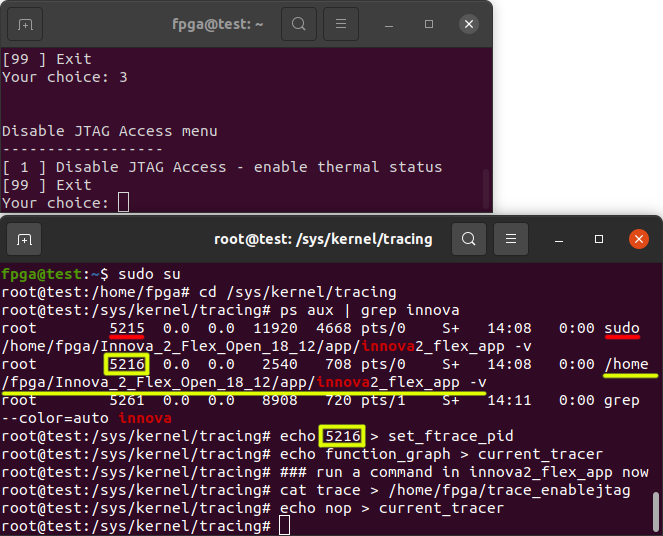
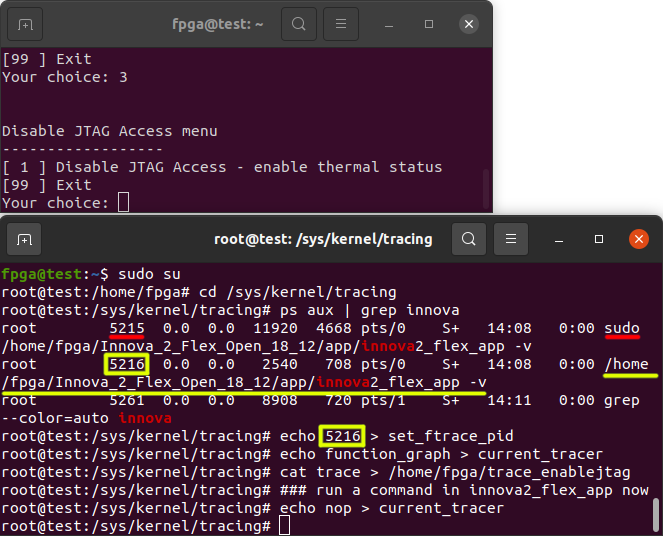
mstreg Enable JTAG switch Image

Changed region(s): [[0.4223, 0.8657, 0.9955, 0.9254]]

diff --git a/debug_notes/README.md b/debug_notes/README.md
@@ -25,8 +25,6 @@ I found out about this technique [here](https://hackaday.com/2018/02/17/catching
 
 ## Recreating innova2_flex_app Functionality for latest MLNX OFED
 
-**Work-In-Progress**
-
 [MLNX_OFED](https://network.nvidia.com/products/infiniband-drivers/linux/mlnx_ofed/) versions > 5.2 do not include `mlx5_fpga_tools` which is required by `innova2_flex_app` to program the FPGA, switch the active image, and enable/disable JTAG.
 
 Check if your current kernel supports tracing.
@@ -50,8 +48,8 @@ cd /sys/kernel/tracing
 ps aux | grep innova
 echo PID_FROM_ABOVE > set_ftrace_pid
 echo function_graph > current_tracer
-### run a command in innova2_flex_app now
 cat trace > /home/fpga/trace_enablejtag
+### run a command in innova2_flex_app now
 echo nop > current_tracer
 exit
 ```
@@ -92,6 +90,10 @@ JTAG is enabled by writing `0x900` to register `0x4023`.
 
 ![mlx5_fpga_ctrl_connect in cmd.c](img/mlx5_fpga_ctrl_connect_in_cmd_c.png)
 
+`mlx5_core_access_reg` is an [EXPORT_SYMBOL](https://lkw.readthedocs.io/en/latest/doc/04_exporting_symbols.html) so it can be called from other kernel modules.
+
+![mlx5_core_access_reg is an EXPORT_SYMBOL](img/mlx5_core_access_reg_is_an_EXPORT_SYMBOL.png)
+
 `MLX5_ST_SZ_DW` sets the value to send.
 
 ![MLX5_ST_SZ_DW in driver.h](img/MLX5_ST_SZ_DW_in_driver_h.png)
@@ -128,7 +130,80 @@ sudo mlxreg -d /dev/mst/mt4119_pciconf0 --yes --reg_id 0x4023 --reg_len 0x4 --se
 
 ![mlxreg Register Write Fails](img/mlxreg_Register_Write_Fails.png)
 
-**TODO**: Figure out how to write the `FPGA_CTRL` register so that `mlx5_fpga_tools.ko` and `innova2_flex_app` are no longer needed to allow using the latest `MLNX_OFED` releases.
+
+### Using mstreg to write FPGA Control Register
+
+`mstreg` from [**mstflint v4.26.0-1**](https://github.com/Mellanox/mstflint/releases/tag/v4.26.0-1) is able to write the FPGA Control registers.
+
+```
+wget https://github.com/Mellanox/mstflint/releases/download/v4.26.0-1/mstflint-4.26.0-1.tar.gz
+tar -xvf mstflint-4.26.0-1.tar.gz
+cd mstflint-4.26.0
+./configure --enable-adb-generic-tools --enable-rdmem
+make
+cd mlxreg/
+lspci | grep Mellanox | grep Ethernet
+sudo find / * -name register_access_table.adb
+```
+
+![mstflint compile and prepare](img/mstreg_compile_and_prepare.png)
+
+Note the Ethernet Controller PCIe address, `04:00.0` above, and the ADB File location, `usr/share/mft/prm_dbs/hca/ext/register_access_table.adb` above.
+
+
+#### Enable or Disable JTAG Connector
+
+`mstreg` can be used to *DISCONNECT* the FPGA's JTAG from the ConnectX-5 to enable the board's JTAG header to be used.
+
+```
+sudo ./mstreg --yes --device 04:00.0 --adb_file /usr/share/mft/prm_dbs/hca/ext/register_access_table.adb --reg_id 0x4023 --reg_len 0x8 --get
+sudo ./mstreg --yes --device 04:00.0 --adb_file /usr/share/mft/prm_dbs/hca/ext/register_access_table.adb --reg_id 0x4023 --reg_len 0x8 --set "0x0.16:4=0x9"
+sudo ./mstreg --yes --device 04:00.0 --adb_file /usr/share/mft/prm_dbs/hca/ext/register_access_table.adb --reg_id 0x4023 --reg_len 0x8 --get
+```
+
+![mstreg DISCONNECT to Enable JTAG](img/mstreg_DISCONNECT_to_Enable_JTAG.png)
+
+Similarly, writing the `4`-bit value `0xA` at the `16`th bit position of register `0x0` connects JTAG signals to the ConnectX-5 and disables the board's JTAG header.
+```
+sudo ./mstreg --yes --device 04:00.0 --adb_file /usr/share/mft/prm_dbs/hca/ext/register_access_table.adb --reg_id 0x4023 --reg_len 0x8 --get
+sudo ./mstreg --yes --device 04:00.0 --adb_file /usr/share/mft/prm_dbs/hca/ext/register_access_table.adb --reg_id 0x4023 --reg_len 0x8 --set "0x0.16:4=0xA"
+sudo ./mstreg --yes --device 04:00.0 --adb_file /usr/share/mft/prm_dbs/hca/ext/register_access_table.adb --reg_id 0x4023 --reg_len 0x8 --get
+```
+
+
+#### Set Active FPGA Configuration Bitstream Image
+
+The [FPGA Configuration Memory Layout](https://docs.nvidia.com/networking/display/innova2flex/using+the+mellanox+innova-2+flex+open+bundle#src-11995976_UsingtheMellanoxInnova2FlexOpenBundle-FlashFormat) allows for 3 configuration bitstreams, *Factory*, *Flex*, and *User*.
+
+![FPGA Configuration Memory Layout](../img/FPGA_Configuration_Memory_Layout.png)
+
+When the User Image is scheduled using `innova2_flex_app` under *MLNX_OFED 5.2*, `0x00030000` is written to word `0` of the control register `0x4023`.
+
+![kprobe of Set User Image Active](img/kprobe_Set_User_Image_Active.png)
+
+When the Flex Image is scheduled using `innova2_flex_app` under *MLNX_OFED 5.2*, `0x00030001` is written to word `0` of the control register `0x4023`.
+
+![kprobe of Set Flex Image Active](img/kprobe_Set_Flex_Image_Active.png)
+
+The User Image can be activated using `mstreg`:
+
+```
+sudo ./mstreg --yes --device 04:00.0 --adb_file /usr/share/mft/prm_dbs/hca/ext/register_access_table.adb --reg_id 0x4023 --reg_len 0x8 --get
+sudo ./mstreg --yes --device 04:00.0 --adb_file /usr/share/mft/prm_dbs/hca/ext/register_access_table.adb --reg_id 0x4023 --reg_len 0x8 --set "0x0.16:4=0x3,0x4.16:4=0x1"
+sudo ./mstreg --yes --device 04:00.0 --adb_file /usr/share/mft/prm_dbs/hca/ext/register_access_table.adb --reg_id 0x4023 --reg_len 0x8 --get
+```
+
+![mstreg Set User Image Active](img/mstreg_Set_User_Image_Active.png)
+
+The Flex Image can be activated using `mstreg`:
+
+```
+sudo ./mstreg --yes --device 04:00.0 --adb_file /usr/share/mft/prm_dbs/hca/ext/register_access_table.adb --reg_id 0x4023 --reg_len 0x8 --get
+sudo ./mstreg --yes --device 04:00.0 --adb_file /usr/share/mft/prm_dbs/hca/ext/register_access_table.adb --reg_id 0x4023 --reg_len 0x8 --set "0x0.16:4=0x3,0x4.16:4=0x0"
+sudo ./mstreg --yes --device 04:00.0 --adb_file /usr/share/mft/prm_dbs/hca/ext/register_access_table.adb --reg_id 0x4023 --reg_len 0x8 --get
+```
+
+![mstreg Set Flex Image Active](img/mstreg_Set_Flex_Image_Active.png)
 
 
 

diff --git a/hardware_notes/README.md b/hardware_notes/README.md
@@ -29,7 +29,7 @@ A [PCIe_x8_Breakout](https://github.com/mwrnd/PCIe_x8_Breakout) in a PCIe socket
 
 ![PCIe Socket Used as Clock Source](img/Innova2_4GB_ADIT_Testing_OpenCAPI_GTY-PCIe_as_Clock_Source.jpg)
 
-Using a multimeter I was able to trace FPGA pin `A33` ([`MGTYTXP3` in Bank 132](https://www.xilinx.com/content/dam/xilinx/support/packagefiles/usapackages/xcku15pffve1517pkg.txt)) to OpenCAPI pin `B23` and FPGA pin `A34` ([`MGTYTXN3` in Bank 132](https://www.xilinx.com/content/dam/xilinx/support/packagefiles/usapackages/xcku15pffve1517pkg.txt)) to pin `B24`. A SlimSAS cables swaps rows so these become `A23` and `A24` on the [OpenCAPI_Breakout](https://github.com/mwrnd/OpenCAPI_Breakout/releases/tag/v0.1-alpha). Its U.FL connectors are labeled relative to the Host so **Rx** connectors on the OpenCAPI_Breakout have **Tx** signals from the FPGA on them.
+Using a multimeter I was able to trace FPGA pin `A33` ([`MGTYTXP3` in Bank 132](https://www.xilinx.com/content/dam/xilinx/support/packagefiles/usapackages/xcku15pffve1517pkg.txt)) to OpenCAPI pin `B23`, and FPGA pin `A34` ([`MGTYTXN3` in Bank 132](https://www.xilinx.com/content/dam/xilinx/support/packagefiles/usapackages/xcku15pffve1517pkg.txt)) to OpenCAPI pin `B24`. A SlimSAS cables swaps rows so these become `A23` and `A24` on the [OpenCAPI_Breakout](https://github.com/mwrnd/OpenCAPI_Breakout/releases/tag/v0.1-alpha). Its U.FL connectors are labeled relative to the Host so **Rx** connectors on the OpenCAPI_Breakout have **Tx** signals from the FPGA on them.
 
 ![Pinout of Rx7](img/Innova2_8GB_ADLT_Partial_Pinout_Rx7.jpg)
 
@@ -109,7 +109,7 @@ A [PCIe_x8_Breakout](https://github.com/mwrnd/PCIe_x8_Breakout) in a PCIe socket
 
 ![PCIe Socket Used as Clock Source](img/Innova2_4GB_ADIT_Testing_OpenCAPI_GTY-PCIe_as_Clock_Source.jpg)
 
-Using a multimeter I was able to trace FPGA pin `A33` ([`MGTYTXP3` in Bank 132](https://www.xilinx.com/content/dam/xilinx/support/packagefiles/usapackages/xcku15pffve1517pkg.txt)) to OpenCAPI pin `B23` and FPGA pin `A34` ([`MGTYTXN3` in Bank 132](https://www.xilinx.com/content/dam/xilinx/support/packagefiles/usapackages/xcku15pffve1517pkg.txt)) to pin `B24`. A SlimSAS cables swaps rows so these become `A23` and `A24` on the [OpenCAPI_Breakout](https://github.com/mwrnd/OpenCAPI_Breakout/releases/tag/v0.1-alpha). Its U.FL connectors are labeled relative to the Host so **Rx** connectors on the OpenCAPI_Breakout have **Tx** signals from the FPGA on them.
+Using a multimeter I was able to trace FPGA pin `A33` ([`MGTYTXP3` in Bank 132](https://www.xilinx.com/content/dam/xilinx/support/packagefiles/usapackages/xcku15pffve1517pkg.txt)) to OpenCAPI pin `B23`, and FPGA pin `A34` ([`MGTYTXN3` in Bank 132](https://www.xilinx.com/content/dam/xilinx/support/packagefiles/usapackages/xcku15pffve1517pkg.txt)) to OpenCAPI pin `B24`. A SlimSAS cables swaps rows so these become `A23` and `A24` on the [OpenCAPI_Breakout](https://github.com/mwrnd/OpenCAPI_Breakout/releases/tag/v0.1-alpha). Its U.FL connectors are labeled relative to the Host so **Rx** connectors on the OpenCAPI_Breakout have **Tx** signals from the FPGA on them.
 
 ![Pinout of Rx7](img/Innova2_8GB_ADLT_Partial_Pinout_Rx7.jpg)
 
